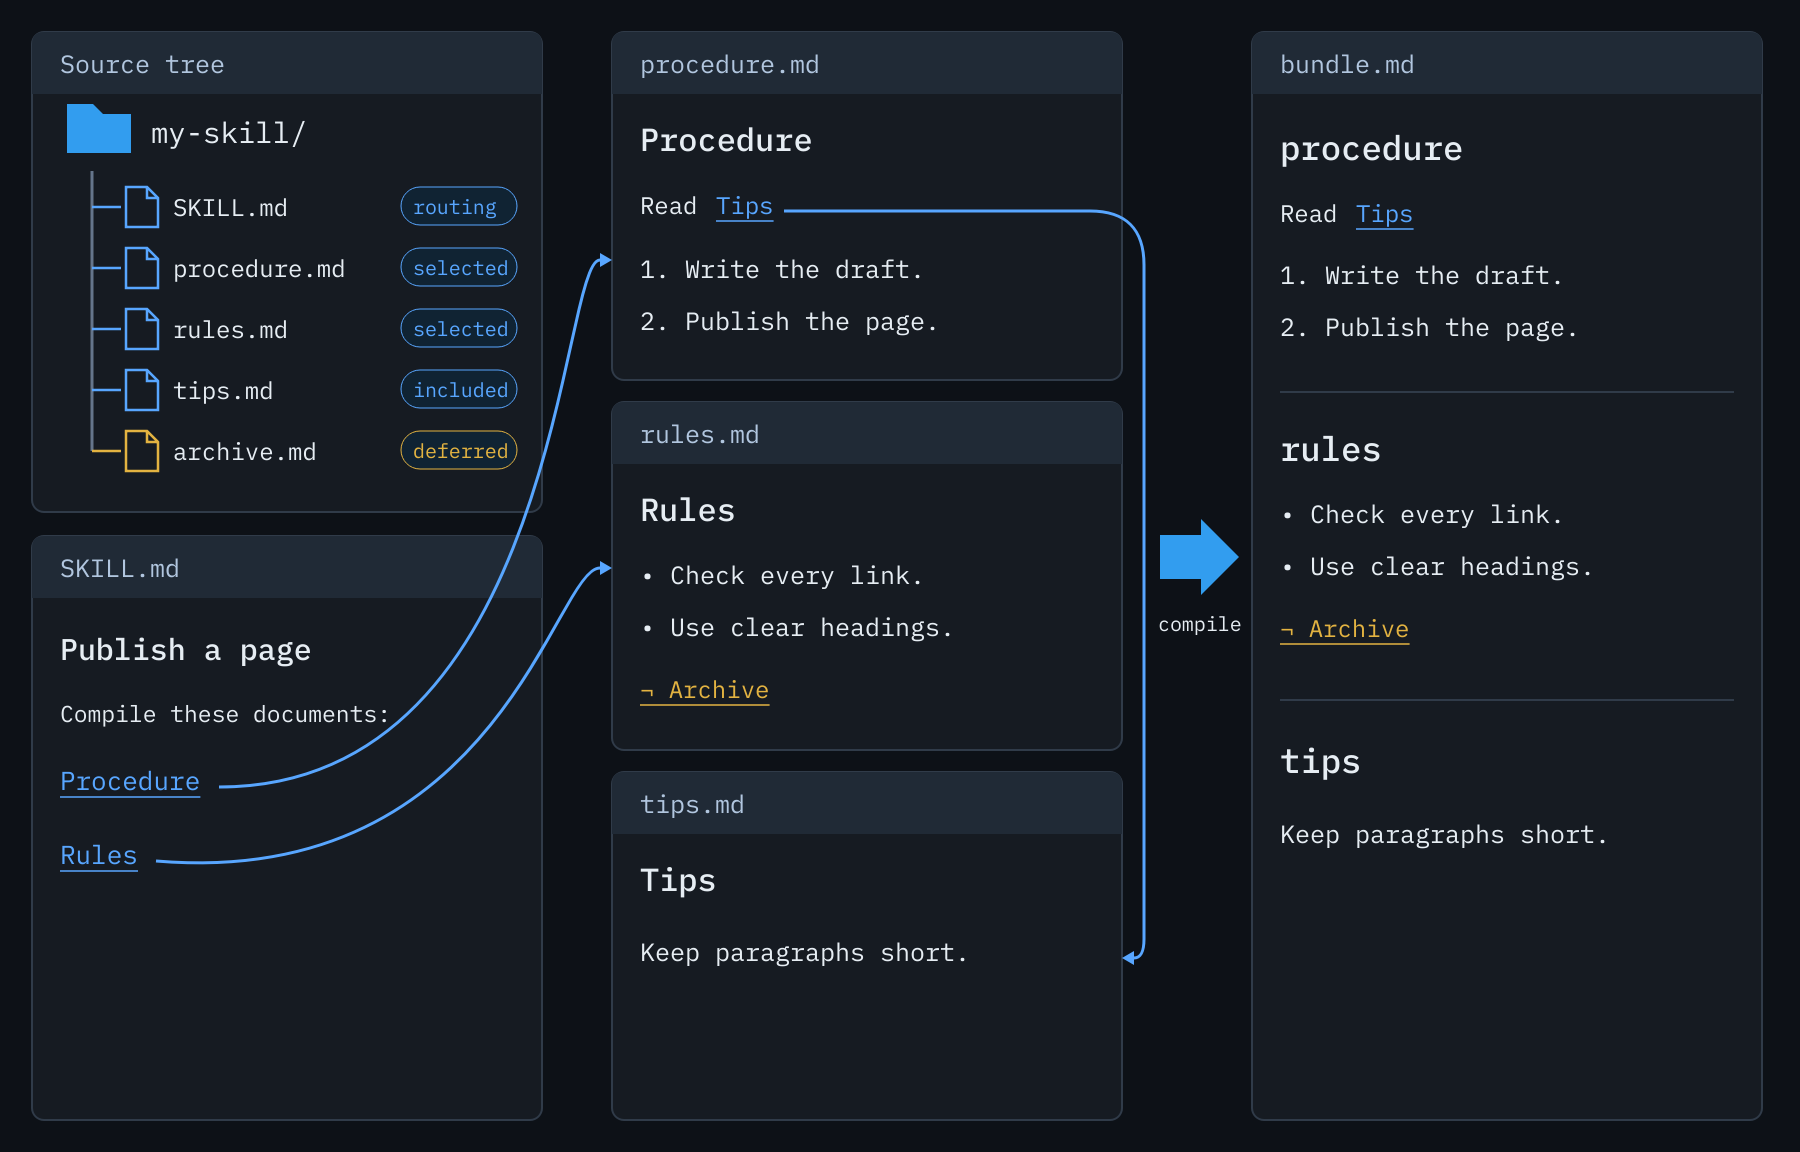
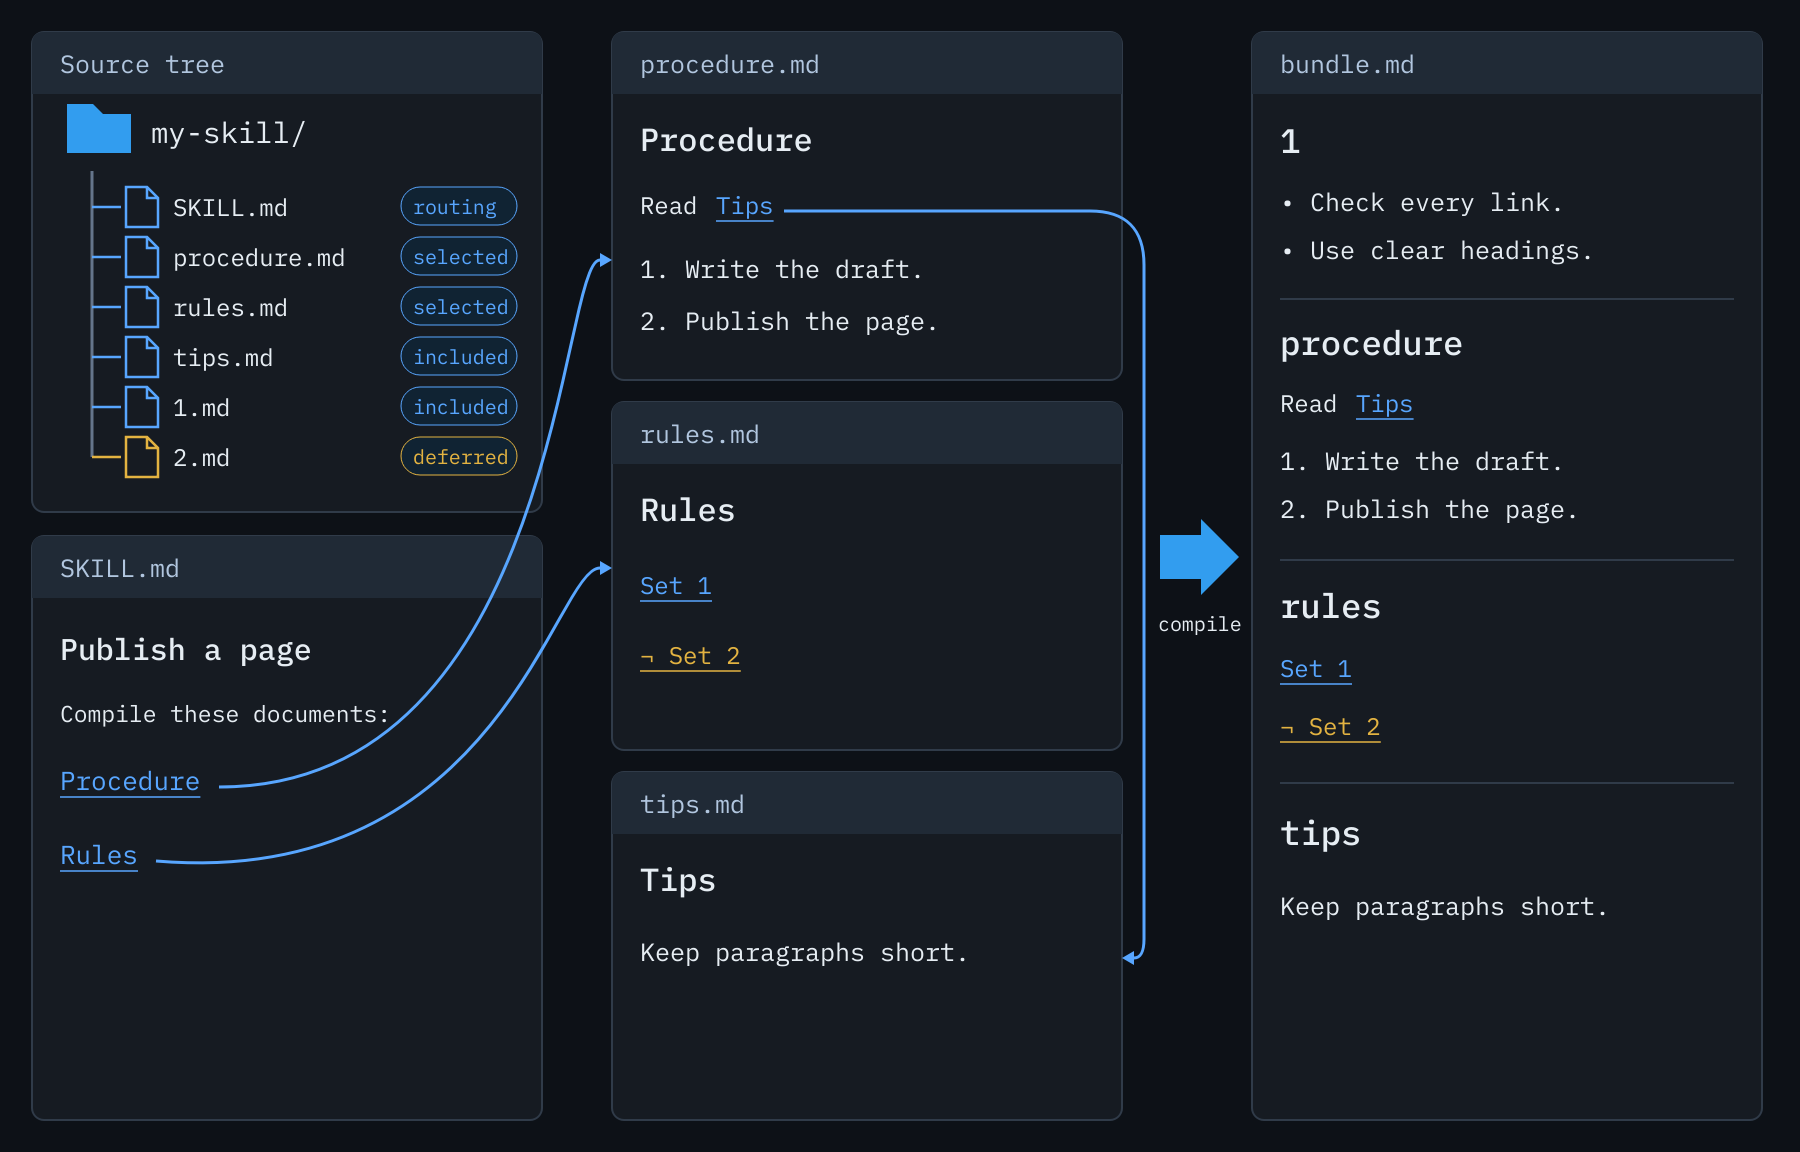
docs: contrast included and deferred rule sets in compilation diagram

diff --git a/README.md b/README.md
@@ -31,7 +31,7 @@ Leaving retrieval to the agent costs:
 prosiform --root my-skill --output bundle.md procedure.md rules.md
 ```
 
-![SKILL.md links to the selected procedure.md and rules.md. Procedure links to tips.md, which is included recursively. Rules links to archive.md with the ¬ marker; that link remains, but archive content is excluded. The bundle contains procedure, rules, and tips, without SKILL.md.](docs/images/compilation.png)
+![SKILL.md links to the selected procedure.md and rules.md. Procedure includes tips.md recursively. Rules links to Set 1 at 1.md and ¬ Set 2 at 2.md. Set 1 is included; Set 2 remains a link without its content. SKILL.md is excluded.](docs/images/compilation.png)
 
 ## Installation
 
